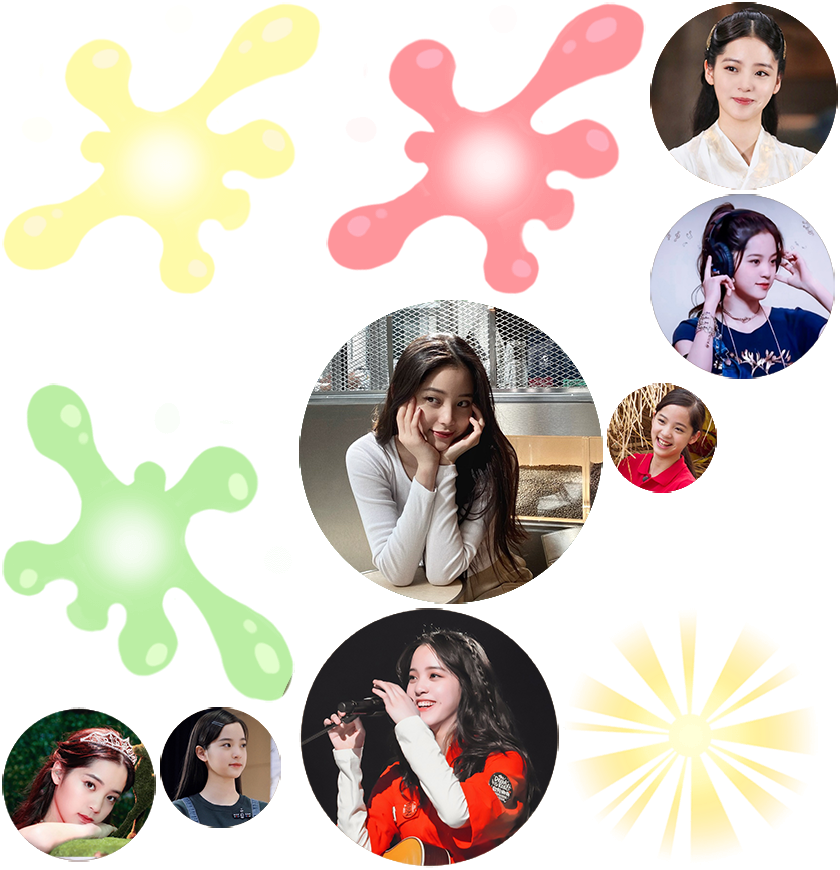
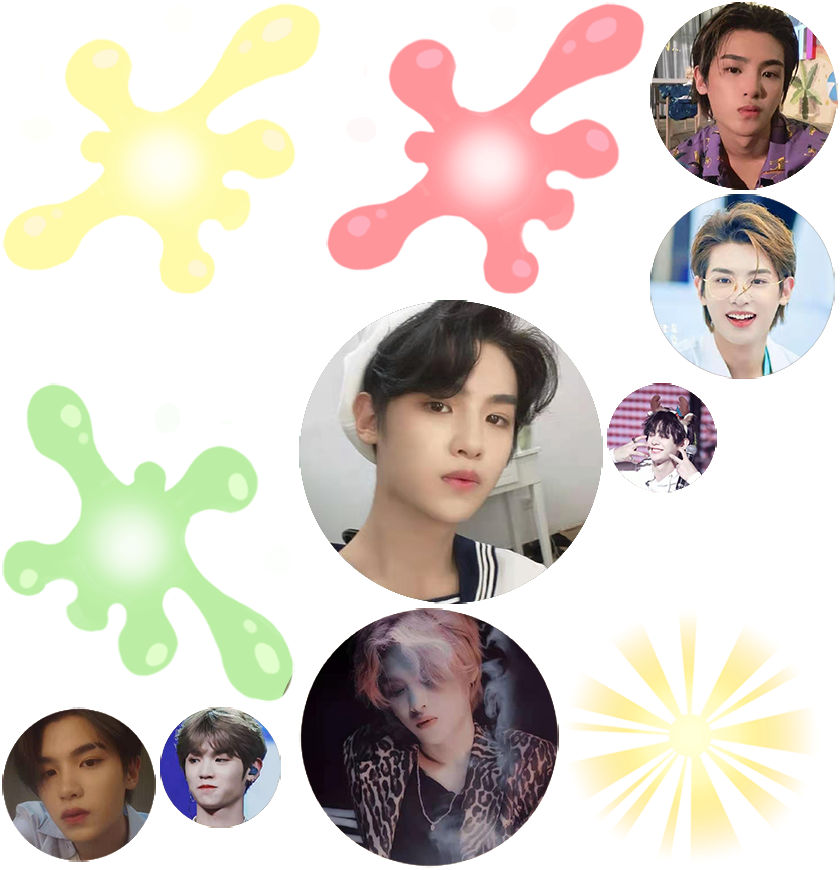
nitial commit

Changed region(s): [[0.0, 0.0, 1.0, 1.0]]

diff --git a/index.html b/index.html
@@ -4,7 +4,7 @@
 <head>
     <meta charset="utf-8">
 
-    <title>合成欧小娜</title>
+    <title>合成黄明昊</title>
 
     <!--http://www.html5rocks.com/en/mobile/mobifying/-->
     <meta name="viewport" content="width=device-width,user-scalable=no,initial-scale=1, minimum-scale=1,maximum-scale=1" />
@@ -109,7 +109,7 @@
             //        console.log("window.navigator.language",window.navigator.language);
 
             if (window.navigator.language == "zh-CN" || window.navigator.language == "zh-cn") {
-                document.title = "合成欧小娜";
+                document.title = "合成黄明昊";
             } 
 
 
